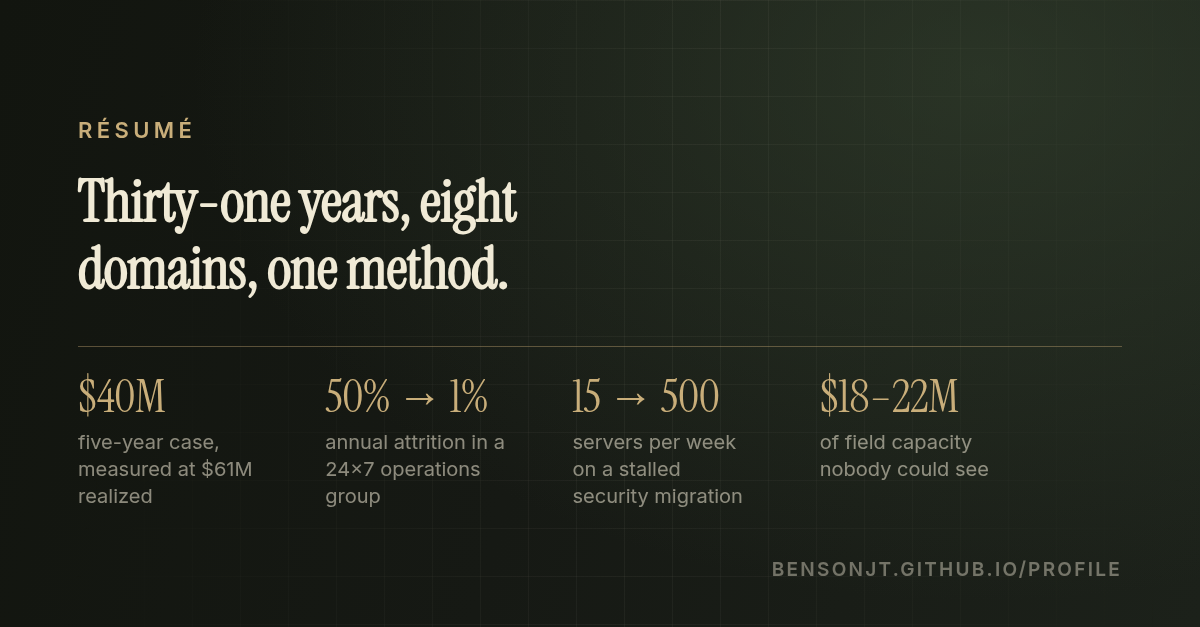
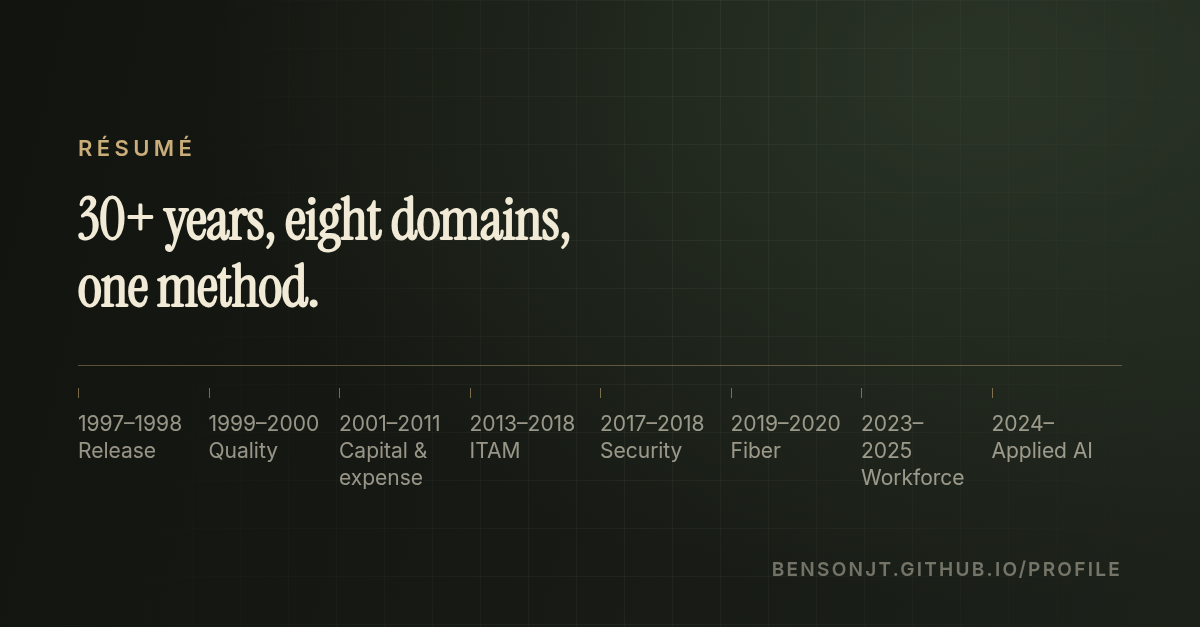
LinkedIn cards: rebuild Systems (8 systems, AI share), Results, Résumé (30+ years, domain strip), Approach; delete About and AI Builder cards; Systems meta descriptions updated

Changed region(s): [[0.0617, 0.6061, 0.925, 0.8182], [0.0617, 0.1818, 0.4933, 0.5152]]

diff --git a/tools/li-card.html b/tools/li-card.html
@@ -179,17 +179,7 @@
                 },
                 resume: {
                     eyebrow: "R&eacute;sum&eacute;",
-                    headline: "Thirty-one years, eight domains, one method.",
-                    stats: [
-                        ["$40M", "five-year case, measured at $61M realized"],
-                        ["50% &rarr; 1%", "annual attrition in a 24x7 operations group"],
-                        ["15 &rarr; 500", "servers per week on a stalled security migration"],
-                        ["$18&ndash;22M", "of field capacity nobody could see"],
-                    ],
-                },
-                work: {
-                    eyebrow: "The record",
-                    headline: "Pulled into eight domains. Every one unfamiliar on day one.",
+                    headline: "30+ years, eight domains, one method.",
                     strip: [
                         "1997&ndash;1998 Release",
                         "1999&ndash;2000 Quality",
@@ -201,29 +191,29 @@
                         "2024&ndash; Applied AI",
                     ],
                 },
-                about: {
-                    eyebrow: "How I lead",
-                    headline: "Behind every tangled process is a person carrying weight they should not have to carry.",
-                    strip: [
-                        "Lead with empathy",
-                        "Diagnose before you design",
-                        "Remove friction",
-                        "Measure what changes",
+                work: {
+                    eyebrow: "Results",
+                    headline: "Measured results. Every one unfamiliar on day one.",
+                    stats: [
+                        ["$40M", "five-year case, measured at $61M realized"],
+                        ["50% &rarr; 1%", "annual attrition in a 24x7 operations group"],
+                        ["15 &rarr; 500", "servers per week on a stalled security migration"],
+                        ["$18&ndash;22M", "of field capacity nobody could see"],
                     ],
                 },
                 systems: {
-                    eyebrow: "What I build",
-                    headline: "One captured model, six ways to read it.",
+                    eyebrow: "Systems &middot; built with AI",
+                    headline: "Code does the counting.<br>AI does the reading.",
                     stats: [
-                        ["6", "visual languages from one captured model"],
-                        ["35", "metrics derived across six stakeholder lenses"],
-                        ["12", "sources ingested for a client research system"],
-                        ["7h &rarr; 4h", "nightly transform window, measured not assumed"],
+                        ["8", "systems built with AI since late 2025"],
+                        ["11 of 1,086", "modules that call an AI model"],
+                        ["0.955", "AUC of an AI fit model on held-out employers"],
+                        ["40+", "assets per lesson from one AI content pipeline"],
                     ],
                 },
                 method: {
-                    eyebrow: "The method",
-                    headline: "Model what is. Design what should be. The delta is the roadmap.",
+                    eyebrow: "Approach",
+                    headline: "How I take a problem apart.",
                     strip: [
                         "Listen, map, align",
                         "Fix the foundation",
@@ -295,47 +285,11 @@
                         ["13", "pre-qualification checks that unlocked it"],
                     ],
                 },
-                "ai-builder": {
-                    eyebrow: "AI Builder Portfolio",
-                    headline: "Learning to build with AI the way I learned everything else.",
-                    stats: [
-                        ["18", "builds documented: nine projects, nine course builds"],
-                        ["10 of 973", "modules across six systems that call a language model"],
-                        ["~80%", "less research-to-publish time on an AI content pipeline"],
-                    ],
-                },
-                "ai-builder-projects": {
-                    eyebrow: "AI Builder &middot; Projects since December 2025",
-                    headline: "Where the AI is,<br>and where it is not.",
-                    stats: [
-                        ["9", "projects: five live, two in build, one open source"],
-                        ["1,375", "Forester commits, 313 from an autonomous AI loop"],
-                        ["40+", "assets per Abide lesson, from one source of truth"],
-                    ],
-                },
                 "fit-analyzer-map": {
                     eyebrow: "Requirements Fit Analyzer &middot; How it works",
                     // <br> is deliberate: one sentence per line reads as the three actors on the map.
                     headline: "Scripts do the counting.<br>AI does the reading.<br>I make the calls.",
                     strip: ["Find", "Judge", "Validate", "Decide", "Build", "Learn", "Publish"],
-                },
-                "ai-builder-evaluation": {
-                    eyebrow: "AI Builder &middot; How I evaluate AI",
-                    headline: "Deterministic by default.<br>A model has to earn its step.",
-                    stats: [
-                        ["10 of 973", "modules across six systems that call a language model"],
-                        ["3 of 6", "systems with no model at runtime"],
-                        ["Bar first", "set before the test; code checks every answer"],
-                    ],
-                },
-                "ai-builder-level1": {
-                    eyebrow: "Leland AI Builder &middot; Level 1",
-                    headline: "Nine builds in four sessions, documented as they shipped.",
-                    stats: [
-                        ["9", "builds, each with a how-I-built-it and a user guide"],
-                        ["6", "slides rebuilt from live data on every refresh"],
-                        ["4", "automations on deck next"],
-                    ],
                 },
             };
 

diff --git a/systems.html b/systems.html
@@ -6,7 +6,7 @@
         <title>Systems — Jeffrey Benson</title>
         <meta
             name="description"
-            content="Forester, Meridian, and Benson Academy. 30+ years of process methodology encoded as software, applied on a client engagement, and shipped to production."
+            content="Eight AI and data systems built since late 2025: what each solved, what it measured, how it was built, and how much of its code calls an AI model."
         />
         <meta property="og:title" content="Systems — Jeffrey Benson" />
         <meta
